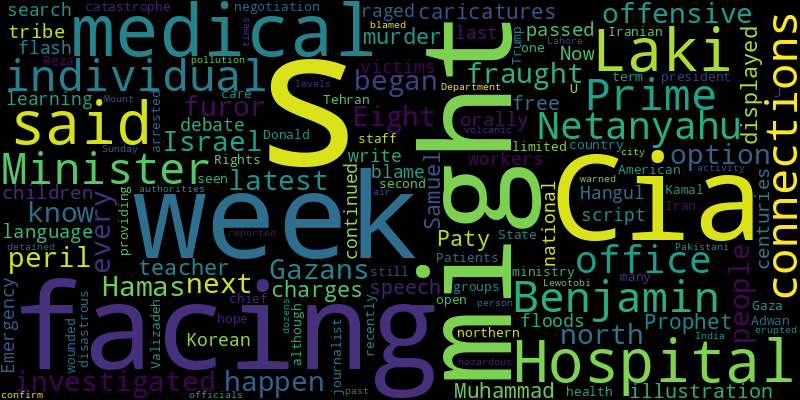
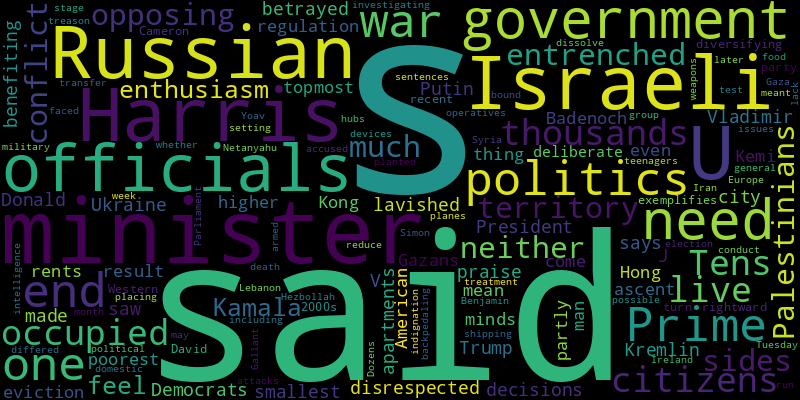
chore(bot): 🙏 auto commit

diff --git a/README.md b/README.md
@@ -2,41 +2,41 @@
 Auto RSS New York Times and Generate Word Cloud
 
 ## New York Times Global News
-* An individual with connections to Prime Minister Benjamin Netanyahu’s office is being investigated. Here’s what to know about how the furor began and what might happen next.
-* For Gazans facing Israel’s latest offensive against Hamas in the north, every option is fraught with peril.
-* Eight more people are facing charges over the 2020 murder of the teacher, Samuel Paty, who had displayed caricatures of the Prophet Muhammad as an illustration of free speech.
-* The Cia-Cia language has been passed down orally for centuries. Now the tribe’s children are learning to write it in Hangul, the Korean script.
-* Emergency workers continued the search for victims of last week’s flash floods, while a national debate raged over who was to blame for the catastrophe.
-* While Donald J. Trump is seen by many in Tehran as having been disastrous for their country, some hope he might be more open to negotiation in a second term as U.S. president.
-* Patients and medical staff were wounded at Kamal Adwan Hospital, one of the few in northern Gaza still providing limited medical care, the health ministry and the hospital’s chief said.
-* Rights groups said that Reza Valizadeh, an Iranian-American journalist, was recently arrested in Iran, although the State Department did not confirm that he was the person detained.
-* The authorities warned of more volcanic activity at Mount Lewotobi Laki-laki, which has erupted dozens of times in the past few weeks.
-* The city of Lahore reported hazardous levels of air pollution on Sunday. Pakistani officials have blamed India for some of it.
+* Tens of thousands of U.S. citizens live in the Israeli-occupied territory, on opposing sides of an entrenched conflict, where neither Palestinians nor Israelis have much enthusiasm for Kamala Harris.
+* Russian officials feel disrespected by the Democrats and betrayed by Donald J. Trump, who lavished praise on President Vladimir V. Putin but made decisions the Kremlin saw as benefiting Ukraine.
+* The government says the city’s smallest apartments need more regulation. For some of Hong Kong’s poorest, that could mean higher rents or even eviction.
+* American politics have not been topmost in the minds of Gazans. “We only need one thing: for this war to come to an end,” one man said.
+* Kemi Badenoch’s ascent is partly the result of a deliberate diversifying of the party under David Cameron in the 2000s. In her politics, she exemplifies its more recent rightward turn.
+* Western officials are investigating whether devices planted at shipping hubs in Europe may have been a test run by Russian operatives for placing them on planes bound for the U.S.
+* The minister, Yoav Gallant, differed with Prime Minister Benjamin Netanyahu over the conduct of the war in Gaza and domestic political issues.
+* Dozens of teenagers had been accused of treason and faced possible death sentences, but indignation over their treatment, including lack of food, has the government backpedaling.
+* The military said the attacks were meant to reduce the transfer of weapons and intelligence from Iran through Syria to Hezbollah, the armed group in Lebanon.
+* Simon Harris, Ireland’s prime minister, said Tuesday that he would dissolve Parliament later this week, setting the stage for a general election by the end of the month.
 
 ![Global](./global.png)
 ## New York Times United States News
-* In the first election after the pandemic, Americans are heading to the polls full of emotions.
-* Residents are feuding over whether to turn a two-mile stretch of road along the Pacific Ocean into a bikeway and walking path.
+* A competing ballot amendment, which would have established a right to abortion until fetal viability, failed to win more votes.
 * The two police officers, who are white, held down the man, who was Black, for seven minutes as he told them he could not breathe.
-* Democrats in battleground states have built a tightly structured get-out-the-vote operation, while Republicans have relied more on outside groups for canvassing.
-* It is unlikely that the court ends up playing a major role in the outcome, according to elections experts, but it is possible. Here’s why.
-* Speaking on the campaign trail in Atlanta, Mr. Vance told supporters that “in our movement, we love every citizen of this country.” Seconds later, he called Vice President Kamala Harris “trash.”
-* In-person classes haven’t been held at the historically Black college in Tennessee since 2015. A fire official said that no injuries had been reported in the blaze.
-* It has been a race unlike any other, and declaring a winner could take a while. Here are some potential harbingers.
-* Here’s how we will bring you the latest vote totals and estimates of the outcome on the presidential race and other contests around the country.
-* The secretary of state had objected to turning over names of people without a record of proof of citizenship to lawyers for a right-wing group, fearing the potential consequences.
+* Graceann Toberman has been counting the votes in her Wisconsin town of 734 people for decades. “I try not to be in a mad dash,” she says.
+* Activists on both sides say Trump could effectively ban abortion nationwide and establish fetal personhood, the longtime goal of the anti-abortion movement.
+* The measure establishes an explicit right to abortion in the State Constitution.
+* This was a conquering of the nation not by force but with a permission slip. Now, America stands on the precipice of an authoritarian style of governance never before seen in its 248-year history.
+* After the Jan. 6 attack on the Capitol, even many Republicans believed the former president’s political career was over. He proved everyone wrong.
+* America’s democracy will again be put the test, and its government will veer sharply to the right. Kamala Harris and Democrats were dealt stunning defeats across the country.
+* Mr. Vance’s victory caps his ideological reversal from anti-Trump author to pro-Trump senator.
+* The candidates had fought hard for Wisconsin. In 2020, Joe Biden narrowly won the state.
 
 ![US](./usnews.png)
 ## New York Times Asia News
+* Cheap flights. Fewer crowds. November can be one of the most affordable months for international travel, and travelers can still snag a choice deal.
+* Mount Fuji, the country’s tallest summit, is revered for its snowy peak. A snowfall reported on Wednesday ended its longest snowless period in 130 years.
+* Bitcoin hit a record, the dollar strengthened and stocks around the world rose as former President Donald J. Trump approached victory.
+* An anxious wait begins.
+* Scientists in Japan constructed the first satellite made of wood by blending age-old woodworking techniques with rocket science.
 * The government says the city’s smallest apartments need more regulation. For some of Hong Kong’s poorest, that could mean higher rents or even eviction.
 * Plus, remembering Quincy Jones.
 * The city of Lahore reported hazardous levels of air pollution on Sunday. Pakistani officials have blamed India for some of it.
 * When the housing market was flying high, mortgage defaults were almost nonexistent. But now the legal system is struggling to keep up with evictions.
 * The authorities warned of more volcanic activity at Mount Lewotobi Laki-laki, which has erupted dozens of times in the past few weeks.
-* The Cia-Cia language has been passed down orally for centuries. Now the tribe’s children are learning to write it in Hangul, the Korean script.
-* Plus, using generative A.I. to take a “decision holiday.”
-* Canadian and U.S. accusations of assassination plots have drawn attention to the Sikh separatist movement, which India calls a source of organized crime.
-* He worked alongside another doctor to show that a simple rehydration therapy could check the ravages of cholera and other diarrhea-inducing diseases.
-* The Biden administration said it had reached a settlement after the U.S. chipmaker voluntarily disclosed that it had shipped products to a firm linked with China’s military industrial complex.
 
 ![Asian](./asian.png)

diff --git a/archive/2024-11-05.md b/archive/2024-11-05.md
@@ -1,0 +1,42 @@
+# NewsArchive
+Auto RSS New York Times and Generate Word Cloud
+
+## New York Times Global News
+* An individual with connections to Prime Minister Benjamin Netanyahu’s office is being investigated. Here’s what to know about how the furor began and what might happen next.
+* For Gazans facing Israel’s latest offensive against Hamas in the north, every option is fraught with peril.
+* Eight more people are facing charges over the 2020 murder of the teacher, Samuel Paty, who had displayed caricatures of the Prophet Muhammad as an illustration of free speech.
+* The Cia-Cia language has been passed down orally for centuries. Now the tribe’s children are learning to write it in Hangul, the Korean script.
+* Emergency workers continued the search for victims of last week’s flash floods, while a national debate raged over who was to blame for the catastrophe.
+* While Donald J. Trump is seen by many in Tehran as having been disastrous for their country, some hope he might be more open to negotiation in a second term as U.S. president.
+* Patients and medical staff were wounded at Kamal Adwan Hospital, one of the few in northern Gaza still providing limited medical care, the health ministry and the hospital’s chief said.
+* Rights groups said that Reza Valizadeh, an Iranian-American journalist, was recently arrested in Iran, although the State Department did not confirm that he was the person detained.
+* The authorities warned of more volcanic activity at Mount Lewotobi Laki-laki, which has erupted dozens of times in the past few weeks.
+* The city of Lahore reported hazardous levels of air pollution on Sunday. Pakistani officials have blamed India for some of it.
+
+![Global](./global.png)
+## New York Times United States News
+* In the first election after the pandemic, Americans are heading to the polls full of emotions.
+* Residents are feuding over whether to turn a two-mile stretch of road along the Pacific Ocean into a bikeway and walking path.
+* The two police officers, who are white, held down the man, who was Black, for seven minutes as he told them he could not breathe.
+* Democrats in battleground states have built a tightly structured get-out-the-vote operation, while Republicans have relied more on outside groups for canvassing.
+* It is unlikely that the court ends up playing a major role in the outcome, according to elections experts, but it is possible. Here’s why.
+* Speaking on the campaign trail in Atlanta, Mr. Vance told supporters that “in our movement, we love every citizen of this country.” Seconds later, he called Vice President Kamala Harris “trash.”
+* In-person classes haven’t been held at the historically Black college in Tennessee since 2015. A fire official said that no injuries had been reported in the blaze.
+* It has been a race unlike any other, and declaring a winner could take a while. Here are some potential harbingers.
+* Here’s how we will bring you the latest vote totals and estimates of the outcome on the presidential race and other contests around the country.
+* The secretary of state had objected to turning over names of people without a record of proof of citizenship to lawyers for a right-wing group, fearing the potential consequences.
+
+![US](./usnews.png)
+## New York Times Asia News
+* The government says the city’s smallest apartments need more regulation. For some of Hong Kong’s poorest, that could mean higher rents or even eviction.
+* Plus, remembering Quincy Jones.
+* The city of Lahore reported hazardous levels of air pollution on Sunday. Pakistani officials have blamed India for some of it.
+* When the housing market was flying high, mortgage defaults were almost nonexistent. But now the legal system is struggling to keep up with evictions.
+* The authorities warned of more volcanic activity at Mount Lewotobi Laki-laki, which has erupted dozens of times in the past few weeks.
+* The Cia-Cia language has been passed down orally for centuries. Now the tribe’s children are learning to write it in Hangul, the Korean script.
+* Plus, using generative A.I. to take a “decision holiday.”
+* Canadian and U.S. accusations of assassination plots have drawn attention to the Sikh separatist movement, which India calls a source of organized crime.
+* He worked alongside another doctor to show that a simple rehydration therapy could check the ravages of cholera and other diarrhea-inducing diseases.
+* The Biden administration said it had reached a settlement after the U.S. chipmaker voluntarily disclosed that it had shipped products to a firm linked with China’s military industrial complex.
+
+![Asian](./asian.png)
